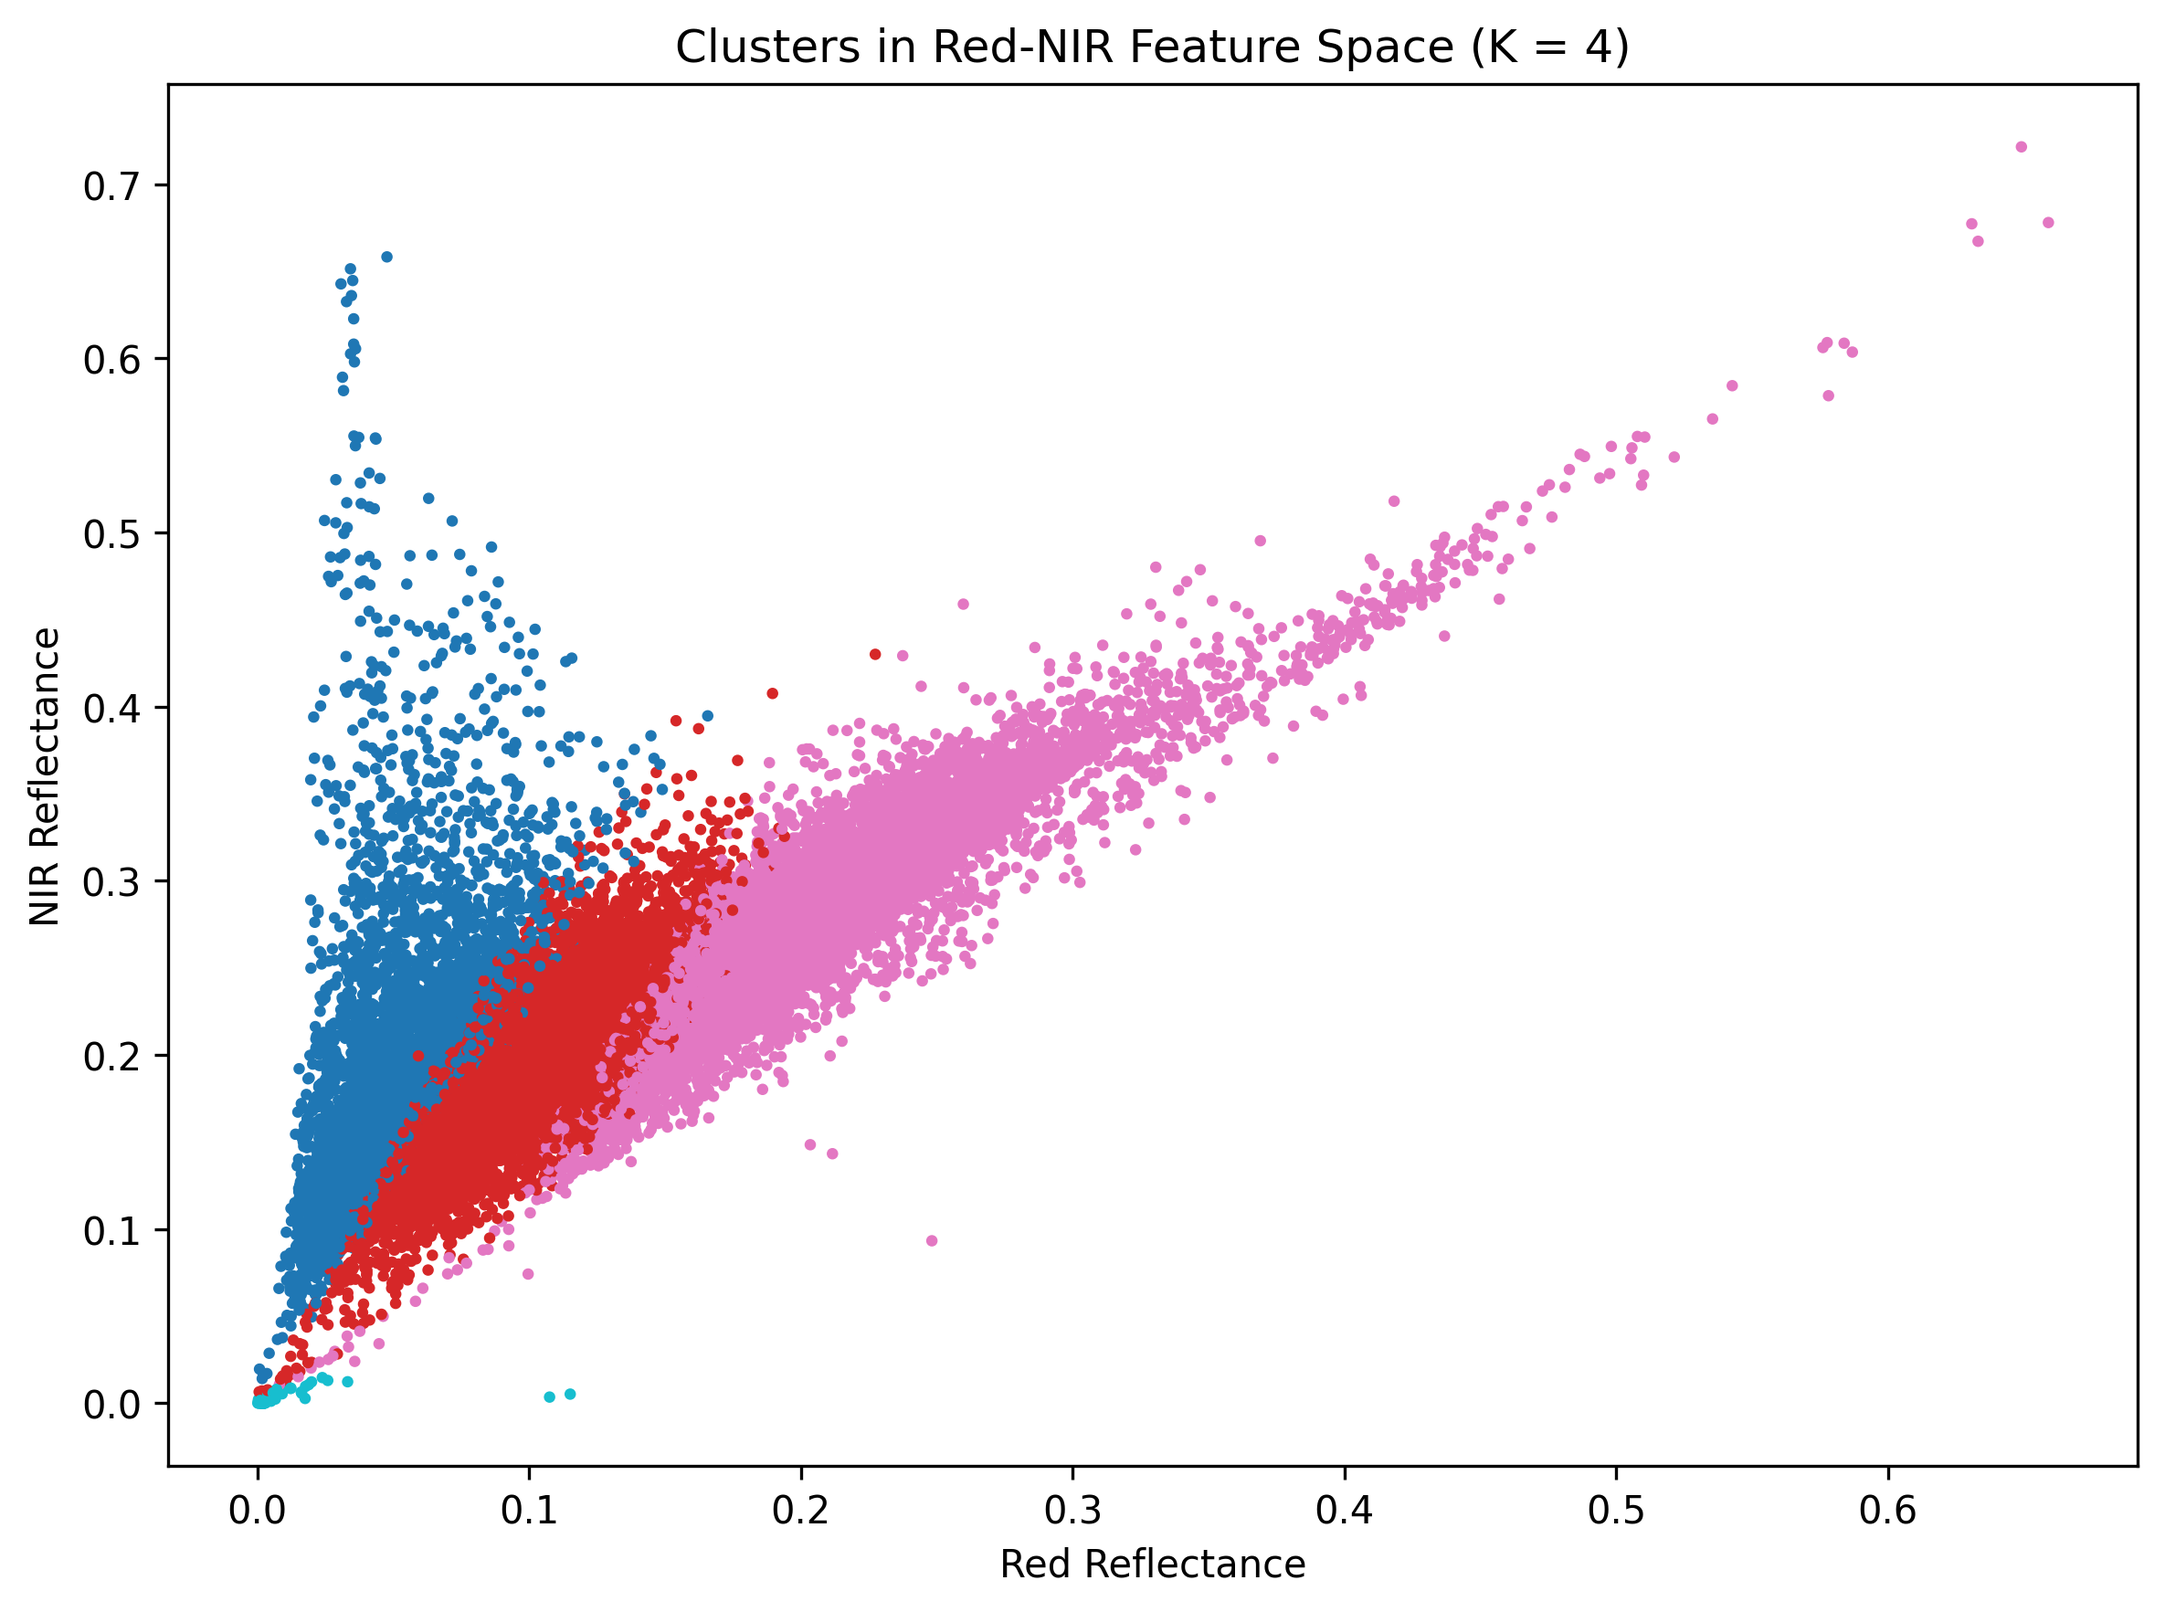
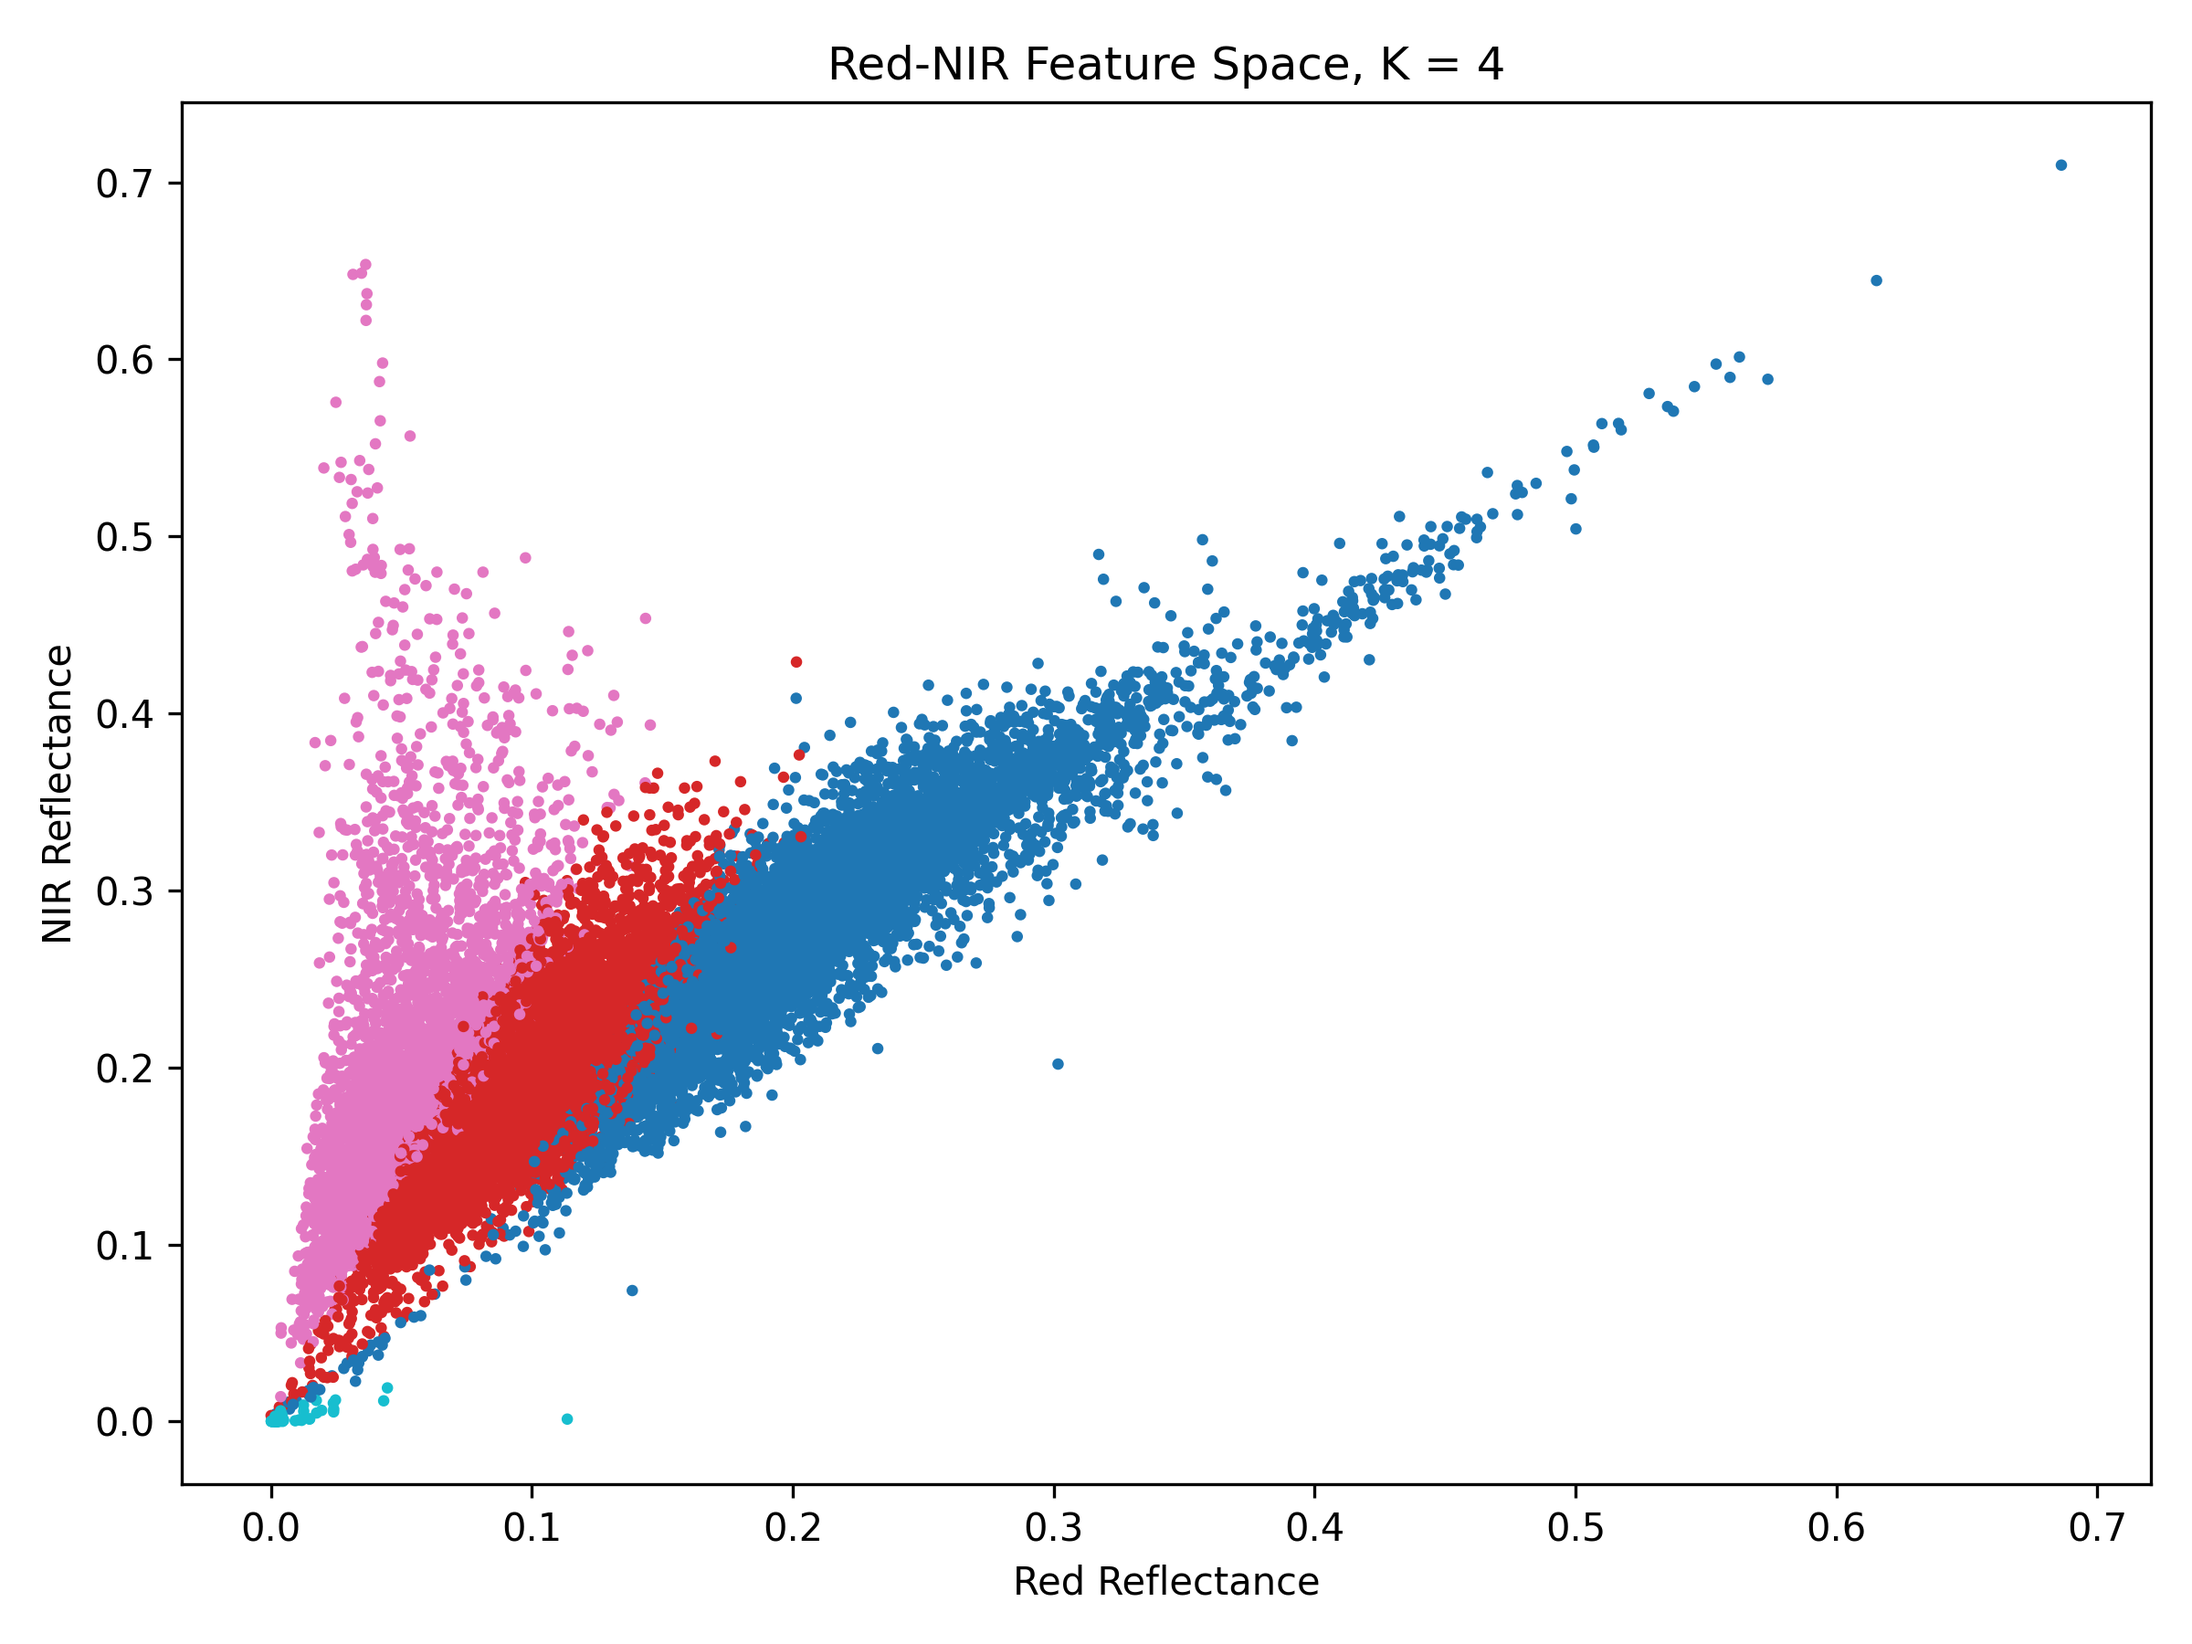
Simplify K-means sweep and save cluster figures

diff --git a/MVP_landsat_kmeans.py b/MVP_landsat_kmeans.py
@@ -1,36 +1,29 @@
-# starter_landsat_kmeans_k2_to_k6_save_only.py
+# landsat_kmeans_sweep_simple.py
 
 import os
 import numpy as np
 import matplotlib.pyplot as plt
 from sklearn.cluster import KMeans
 import rasterio
-import matplotlib.patches as mpatches
 
-# ----------------------------
-# 1) User settings
-# ----------------------------
 GREEN_PATH = "LC08_L2SP_041036_20251005_20251115_02_T1_SR_B3.TIF"
 RED_PATH   = "LC08_L2SP_041036_20251005_20251115_02_T1_SR_B4.TIF"
 NIR_PATH   = "LC08_L2SP_041036_20251005_20251115_02_T1_SR_B5.TIF"
 SWIR1_PATH = "LC08_L2SP_041036_20251005_20251115_02_T1_SR_B6.TIF"
 
 OUTPUT_DIR = "results"
-DOWNSAMPLE = 2
-MAX_SAMPLES = 20000
-RANDOM_SEED = 0
-K_VALUES = [2, 3, 4, 5, 6]
-
 os.makedirs(OUTPUT_DIR, exist_ok=True)
 
-# ----------------------------
-# 2) Helper functions
-# ----------------------------
+K_VALUES = [2, 3, 4, 5, 6]
+MAX_SAMPLES = 20000
+RANDOM_SEED = 0
+
+# Set to None for full resolution, or use 2/4 for faster testing
+DOWNSAMPLE = None
+
 def read_band(path):
     with rasterio.open(path) as src:
-        band = src.read(1).astype(np.float32)
-        profile = src.profile
-    return band, profile
+        return src.read(1).astype(np.float32)
 
 def scale_reflectance(dn):
     return dn * 0.0000275 - 0.2
@@ -46,155 +39,45 @@ def normalize_for_display(img, clip_min=0.0, clip_max=0.4):
     img = np.clip(img, clip_min, clip_max)
     return (img - clip_min) / (clip_max - clip_min)
 
-def save_false_color(nir, red, green, out_path):
-    nir_vis = normalize_for_display(nir)
-    red_vis = normalize_for_display(red)
-    green_vis = normalize_for_display(green)
-
-    false_color = np.stack([nir_vis, red_vis, green_vis], axis=-1)
+def save_false_color(nir, red, green):
+    false_color = np.stack([
+        normalize_for_display(nir),
+        normalize_for_display(red),
+        normalize_for_display(green)
+    ], axis=-1)
 
     plt.figure(figsize=(12, 10))
     plt.imshow(false_color)
     plt.title("False Color Composite (NIR, Red, Green)")
     plt.axis("off")
     plt.tight_layout()
-    plt.savefig(out_path, dpi=300, bbox_inches="tight")
+    plt.savefig(os.path.join(OUTPUT_DIR, "false_color_composite.png"), dpi=300)
     plt.close()
 
-def assign_land_cover_labels(cluster_means):
-    """
-    More conservative labeling:
-    - Avoid overclaiming Urban when desert/bare soil is spectrally similar
-    - Use broader, more honest classes
-    """
-    cluster_to_class = {}
+# Load bands
+green = scale_reflectance(read_band(GREEN_PATH))
+red   = scale_reflectance(read_band(RED_PATH))
+nir   = scale_reflectance(read_band(NIR_PATH))
+swir1 = scale_reflectance(read_band(SWIR1_PATH))
 
-    for i, mean in cluster_means.items():
-        green_m, red_m, nir_m, swir1_m, ndvi_m, ndwi_m, ndbi_m = mean
-        mean_brightness = (green_m + red_m + nir_m + swir1_m) / 4.0
+if DOWNSAMPLE is not None:
+    green = green[::DOWNSAMPLE, ::DOWNSAMPLE]
+    red   = red[::DOWNSAMPLE, ::DOWNSAMPLE]
+    nir   = nir[::DOWNSAMPLE, ::DOWNSAMPLE]
+    swir1 = swir1[::DOWNSAMPLE, ::DOWNSAMPLE]
 
-        # Strong vegetation
-        if ndvi_m > 0.5:
-            cluster_to_class[i] = "Vegetation"
+print("Image shape:", green.shape)
 
-        # Moderate vegetation
-        elif ndvi_m > 0.2:
-            cluster_to_class[i] = "Sparse Vegetation"
+save_false_color(nir, red, green)
 
-        # Water-like
-        elif ndwi_m > 0.05 and nir_m < 0.15:
-            cluster_to_class[i] = "Water"
-
-        # Very dark surfaces
-        elif mean_brightness < 0.08:
-            cluster_to_class[i] = "Water/Shadow"
-
-        # Low-vegetation surfaces: do NOT force urban
-        elif ndvi_m < 0.2 and ndbi_m > 0.0:
-            cluster_to_class[i] = "Bare Soil / Urban"
-
-        else:
-            cluster_to_class[i] = "Non-Vegetated"
-
-    return cluster_to_class
-
-def build_rgb_map(label_image, cluster_to_class, class_colors):
-    rows, cols = label_image.shape
-    rgb_map = np.zeros((rows, cols, 3), dtype=np.uint8)
-
-    for cluster_id, class_name in cluster_to_class.items():
-        mask = label_image == cluster_id
-        rgb_map[mask] = class_colors[class_name]
-
-    rgb_map[label_image == -1] = [0, 0, 0]
-    return rgb_map
-
-def save_raw_cluster_map(label_image, k, out_path):
-    plt.figure(figsize=(12, 10))
-    plt.imshow(label_image, cmap="tab10")
-    plt.colorbar(label="Cluster ID")
-    plt.title(f"K-means Cluster Map (K = {k})")
-    plt.axis("off")
-    plt.tight_layout()
-    plt.savefig(out_path, dpi=300, bbox_inches="tight")
-    plt.close()
-
-def save_labeled_map(rgb_map, cluster_to_class, class_colors, k, out_path):
-    used_classes = []
-    for cluster_id in sorted(cluster_to_class.keys()):
-        cname = cluster_to_class[cluster_id]
-        if cname not in used_classes:
-            used_classes.append(cname)
-
-    legend_handles = [
-        mpatches.Patch(
-            color=np.array(class_colors[cname]) / 255.0,
-            label=cname
-        )
-        for cname in used_classes
-    ]
-
-    plt.figure(figsize=(12, 10))
-    plt.imshow(rgb_map)
-    plt.legend(handles=legend_handles, loc="lower right", framealpha=0.9)
-    plt.title(f"Land Cover Classification (K = {k})")
-    plt.axis("off")
-    plt.tight_layout()
-    plt.savefig(out_path, dpi=300, bbox_inches="tight")
-    plt.close()
-
-def save_feature_scatter(X_train, labels_train, k, out_path):
-    plt.figure(figsize=(8, 6))
-    plt.scatter(
-        X_train[:, 1],   # red
-        X_train[:, 2],   # nir
-        c=labels_train,
-        s=4,
-        cmap="tab10"
-    )
-    plt.xlabel("Red Reflectance")
-    plt.ylabel("NIR Reflectance")
-    plt.title(f"Clusters in Red-NIR Feature Space (K = {k})")
-    plt.tight_layout()
-    plt.savefig(out_path, dpi=300, bbox_inches="tight")
-    plt.close()
-
-# ----------------------------
-# 3) Load and preprocess data
-# ----------------------------
-green_dn, profile = read_band(GREEN_PATH)
-red_dn, _         = read_band(RED_PATH)
-nir_dn, _         = read_band(NIR_PATH)
-swir1_dn, _       = read_band(SWIR1_PATH)
-
-if not (green_dn.shape == red_dn.shape == nir_dn.shape == swir1_dn.shape):
-    raise ValueError("Input bands do not all have the same shape.")
-
-green = scale_reflectance(green_dn)
-red   = scale_reflectance(red_dn)
-nir   = scale_reflectance(nir_dn)
-swir1 = scale_reflectance(swir1_dn)
-
-green = green[::DOWNSAMPLE, ::DOWNSAMPLE]
-red   = red[::DOWNSAMPLE, ::DOWNSAMPLE]
-nir   = nir[::DOWNSAMPLE, ::DOWNSAMPLE]
-swir1 = swir1[::DOWNSAMPLE, ::DOWNSAMPLE]
-
-print("Downsampled image shape:", green.shape)
-
-save_false_color(
-    nir, red, green,
-    os.path.join(OUTPUT_DIR, "false_color_composite.png")
-)
-
+# Compute indices
 ndvi = normalized_difference(nir, red)
 ndwi = normalized_difference(green, nir)
 ndbi = normalized_difference(swir1, nir)
 
+# Build feature matrix
 feature_stack = np.stack([green, red, nir, swir1, ndvi, ndwi, ndbi], axis=-1)
-
 rows, cols, num_features = feature_stack.shape
-print("Feature stack shape:", feature_stack.shape)
 
 X = feature_stack.reshape(-1, num_features).astype(np.float32)
 
@@ -208,86 +91,64 @@ X_valid = X[valid_mask]
 print("Total pixels:", X.shape[0])
 print("Valid pixels:", X_valid.shape[0])
 
+# Sample for training
 rng = np.random.default_rng(RANDOM_SEED)
+
 if X_valid.shape[0] > MAX_SAMPLES:
     idx = rng.choice(X_valid.shape[0], size=MAX_SAMPLES, replace=False)
     X_train = X_valid[idx]
 else:
     X_train = X_valid
 
-print("Training samples for k-means:", X_train.shape[0])
+print("Training samples:", X_train.shape[0])
 
-# ----------------------------
-# 4) Class colors
-# ----------------------------
-class_colors = {
-    "Vegetation":        [34, 139, 34],    # forest green
-    "Sparse Vegetation": [154, 205, 50],   # yellow-green
-    "Water":             [30, 144, 255],   # dodger blue
-    "Water/Shadow":      [65, 105, 225],   # royal blue
-    "Bare Soil / Urban": [210, 105, 30],   # chocolate
-    "Non-Vegetated":     [210, 180, 140],  # tan
-}
-
-# ----------------------------
-# 5) Run K = 2 through 6
-# ----------------------------
 feature_names = ["green", "red", "nir", "swir1", "ndvi", "ndwi", "ndbi"]
 
-for k in K_VALUES:
-    print(f"\n=== Running K = {k} ===")
+for K in K_VALUES:
+    print(f"\nRunning K = {K}")
 
-    kmeans = KMeans(n_clusters=k, random_state=RANDOM_SEED, n_init=10)
-    kmeans.fit(X_train)
-
-    labels_train = kmeans.predict(X_train)
+    kmeans = KMeans(n_clusters=K, random_state=RANDOM_SEED, n_init=10)
+    labels_train = kmeans.fit_predict(X_train)
     labels_valid = kmeans.predict(X_valid)
 
     label_image = np.full(X.shape[0], -1, dtype=np.int32)
     label_image[valid_mask] = labels_valid
     label_image = label_image.reshape(rows, cols)
 
-    cluster_means = {}
-    for i in range(k):
-        cluster_pixels = X_train[labels_train == i]
-        if cluster_pixels.size == 0:
-            print(f"\nCluster {i}: empty")
-            continue
+    # Save cluster map with cluster IDs only
+    plt.figure(figsize=(12, 10))
+    plt.imshow(label_image, cmap="tab10")
+    plt.colorbar(label="Cluster ID")
+    plt.title(f"K-means Cluster Map, K = {K}")
+    plt.axis("off")
+    plt.tight_layout()
+    plt.savefig(os.path.join(OUTPUT_DIR, f"k{K}_cluster_map.png"), dpi=300)
+    plt.close()
 
+    # Save feature-space scatter
+    plt.figure(figsize=(8, 6))
+    plt.scatter(
+        X_train[:, 1],
+        X_train[:, 2],
+        c=labels_train,
+        s=4,
+        cmap="tab10"
+    )
+    plt.xlabel("Red Reflectance")
+    plt.ylabel("NIR Reflectance")
+    plt.title(f"Red-NIR Feature Space, K = {K}")
+    plt.tight_layout()
+    plt.savefig(os.path.join(OUTPUT_DIR, f"k{K}_red_nir_scatter.png"), dpi=300)
+    plt.close()
+
+    # Print cluster means for interpretation
+    print(f"Cluster means for K = {K}:")
+    for cluster_id in range(K):
+        cluster_pixels = X_train[labels_train == cluster_id]
         cluster_mean = cluster_pixels.mean(axis=0)
-        cluster_means[i] = cluster_mean
 
-        print(f"\nCluster {i}:")
+        print(f"\nCluster {cluster_id}:")
         for name, val in zip(feature_names, cluster_mean):
             print(f"  {name:>6s}: {val: .4f}")
 
-    cluster_to_class = assign_land_cover_labels(cluster_means)
-
-    print("\nCluster label assignments:")
-    for cluster_id, class_name in cluster_to_class.items():
-        print(f"  Cluster {cluster_id} -> {class_name}")
-
-    rgb_map = build_rgb_map(label_image, cluster_to_class, class_colors)
-
-    save_raw_cluster_map(
-        label_image,
-        k,
-        os.path.join(OUTPUT_DIR, f"k{k}_raw_cluster_map.png")
-    )
-
-    save_labeled_map(
-        rgb_map,
-        cluster_to_class,
-        class_colors,
-        k,
-        os.path.join(OUTPUT_DIR, f"k{k}_labeled_land_cover_map.png")
-    )
-
-    save_feature_scatter(
-        X_train,
-        labels_train,
-        k,
-        os.path.join(OUTPUT_DIR, f"k{k}_red_nir_scatter.png")
-    )
-
-print(f"\nDone. Saved all outputs to: {OUTPUT_DIR}")
+print(f"\nDone. Figures saved in: {OUTPUT_DIR}")
